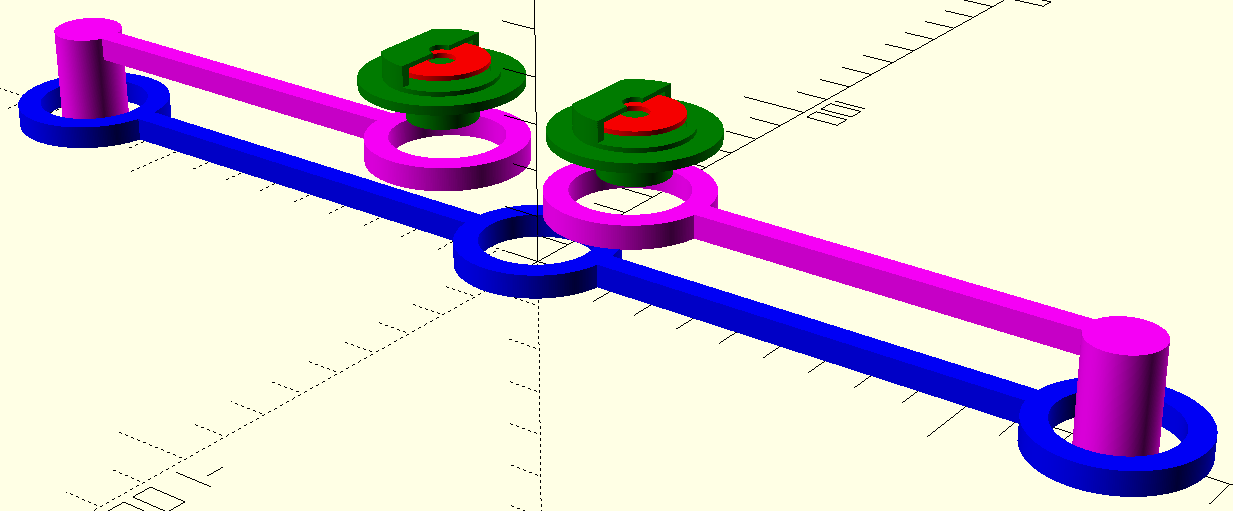
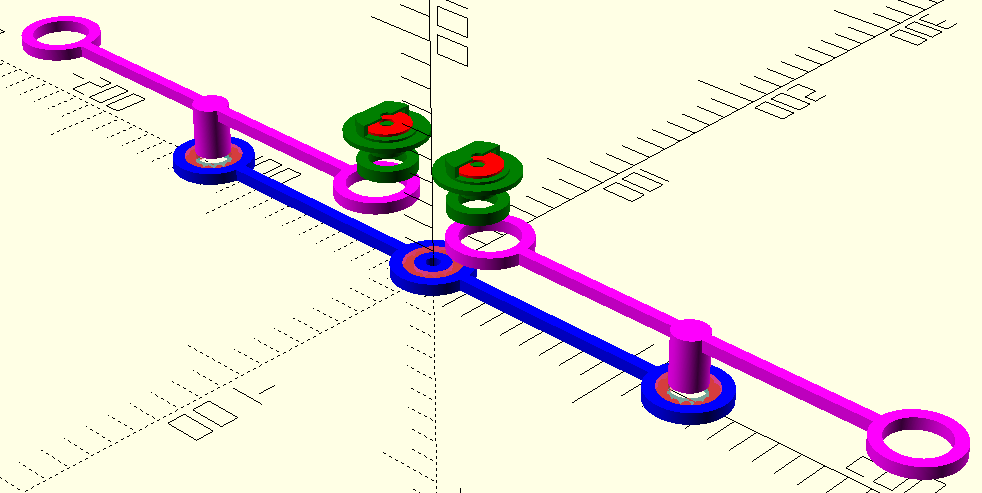
Update double pendulum
Add double sided short hand for better balance
resulting in slower convergence to  equilibrium.

Also added a gif of the result.

diff --git a/double_pendulum/README.md b/double_pendulum/README.md
@@ -5,3 +5,7 @@ With a holder for LEDs and cr2032 batteries.
 <p align="center">
    <img src="https://github.com/saeedghsh/3d_models/blob/master/double_pendulum/images/double_pendulum.png">
 </p>
+
+<p align="center">
+   <img src="https://github.com/saeedghsh/3d_models/blob/master/double_pendulum/images/double_pendulum.gif">
+</p>
